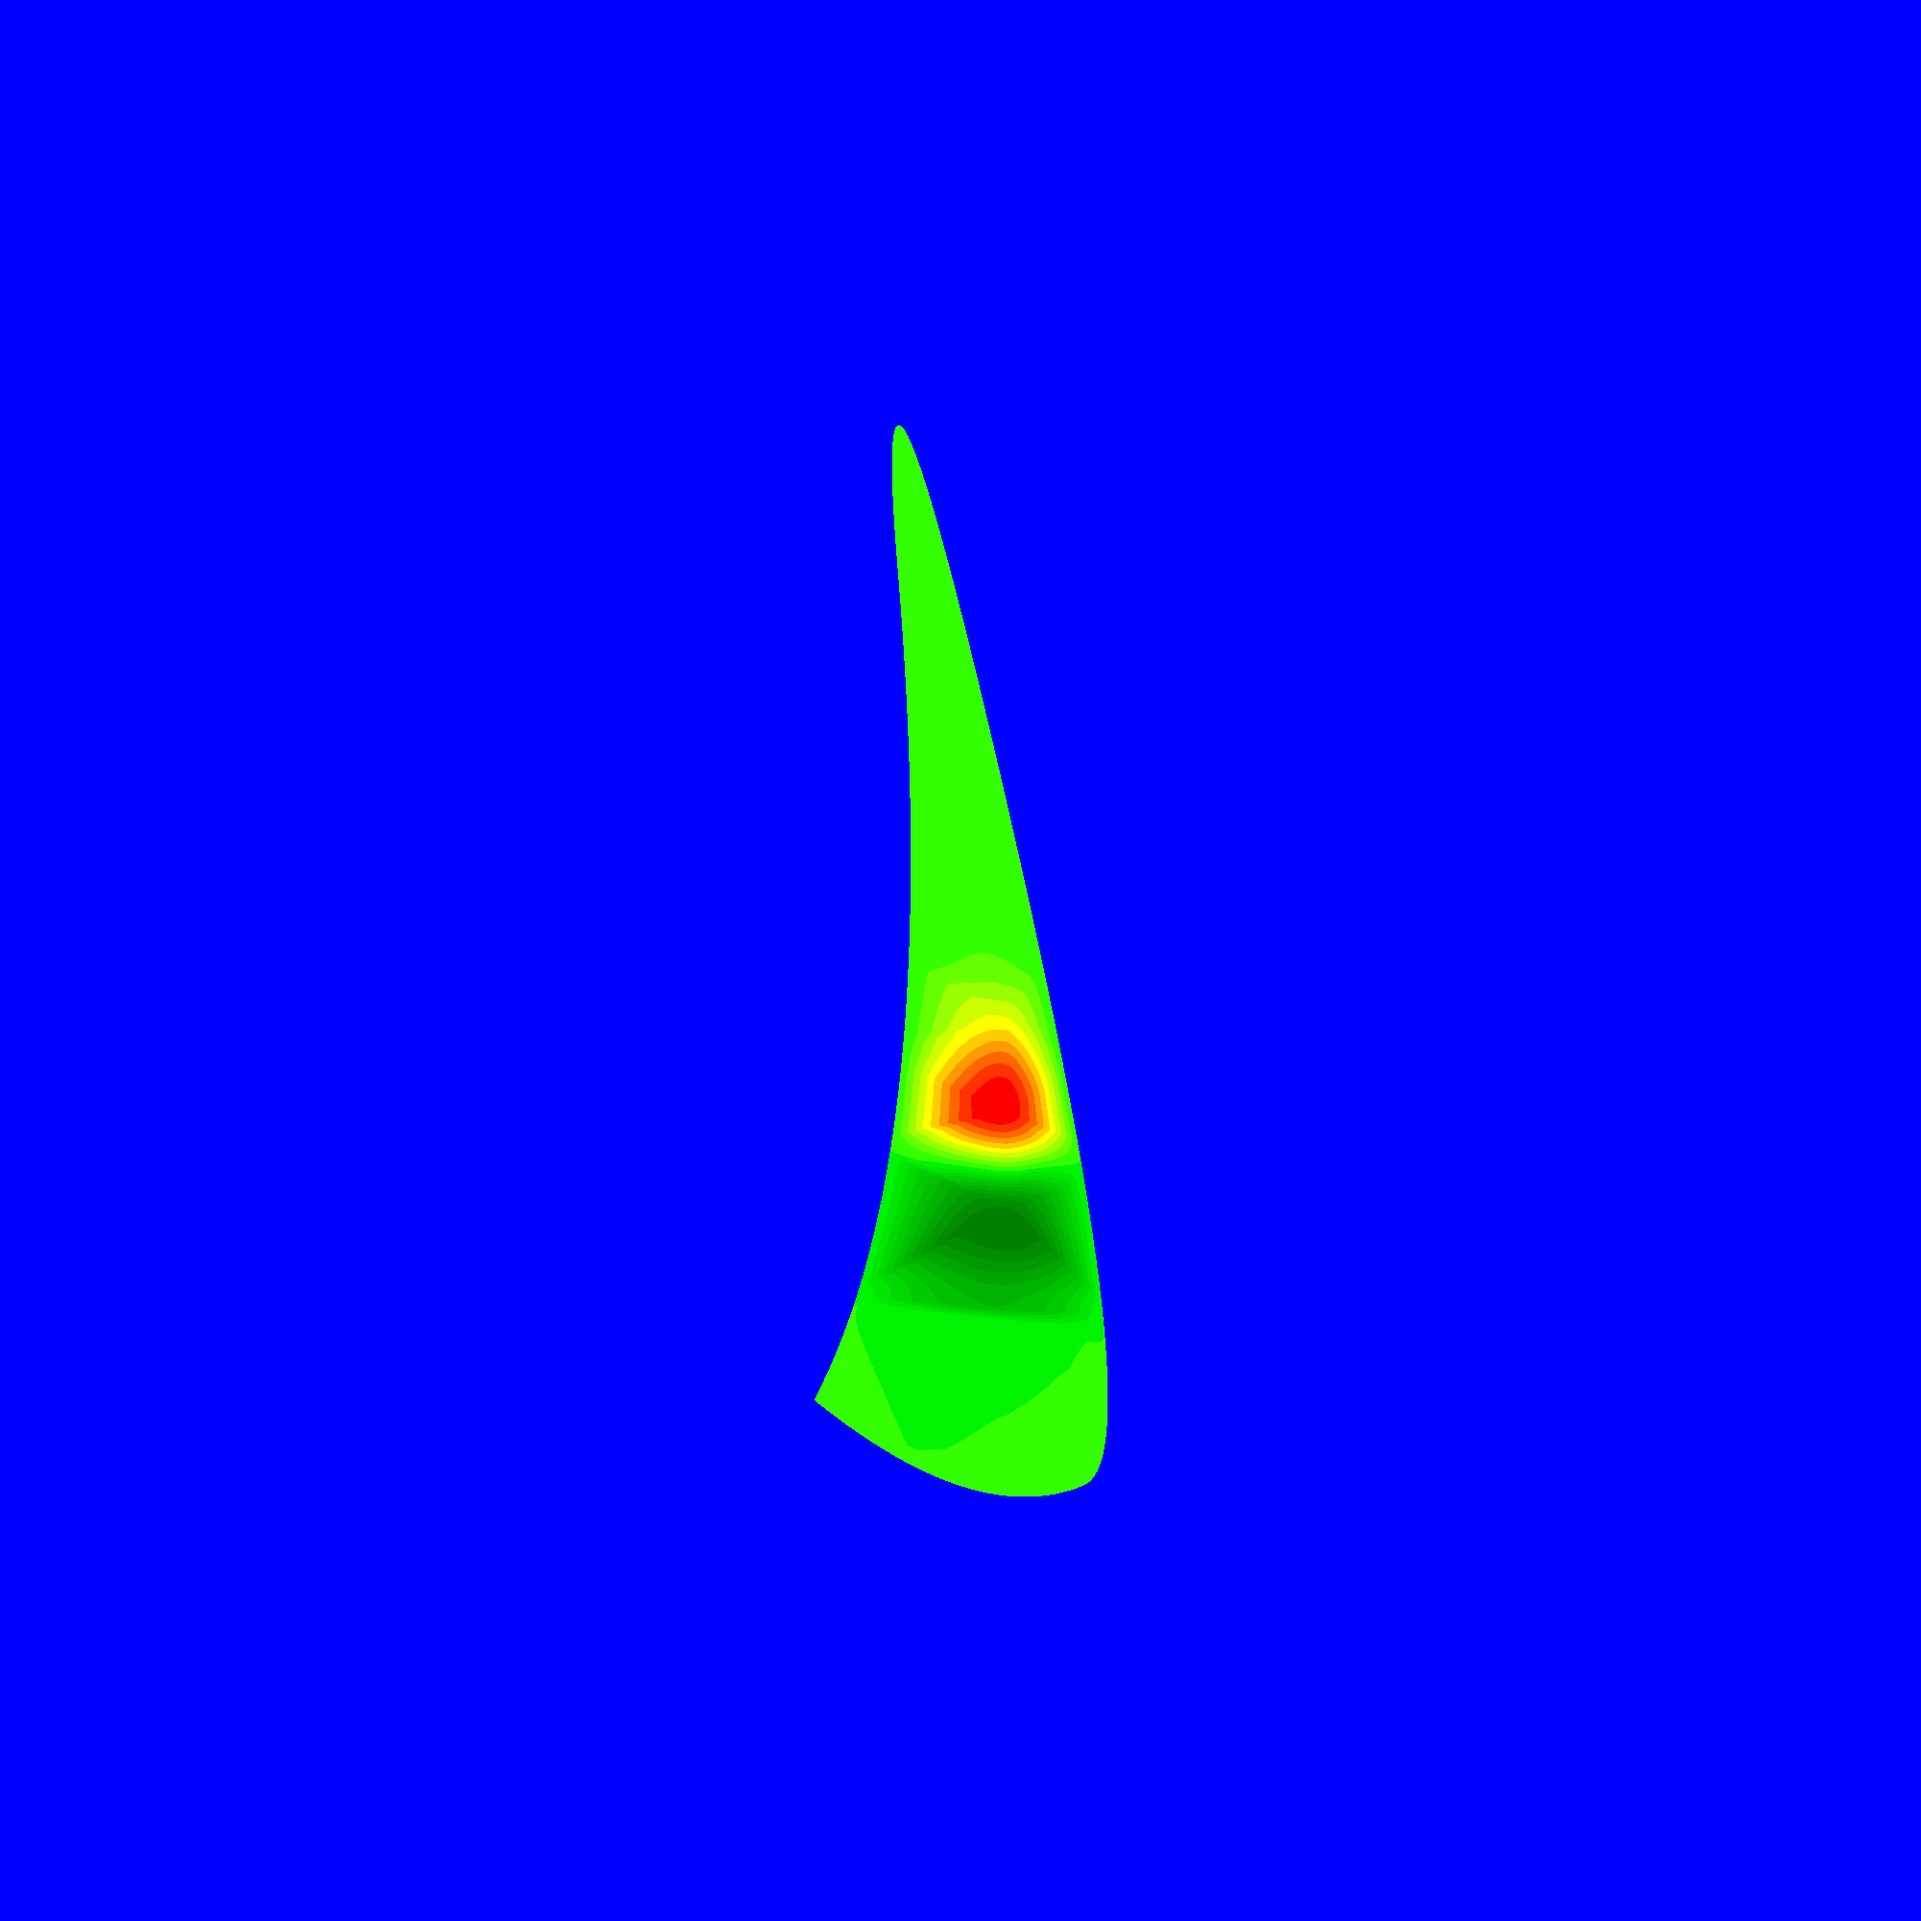
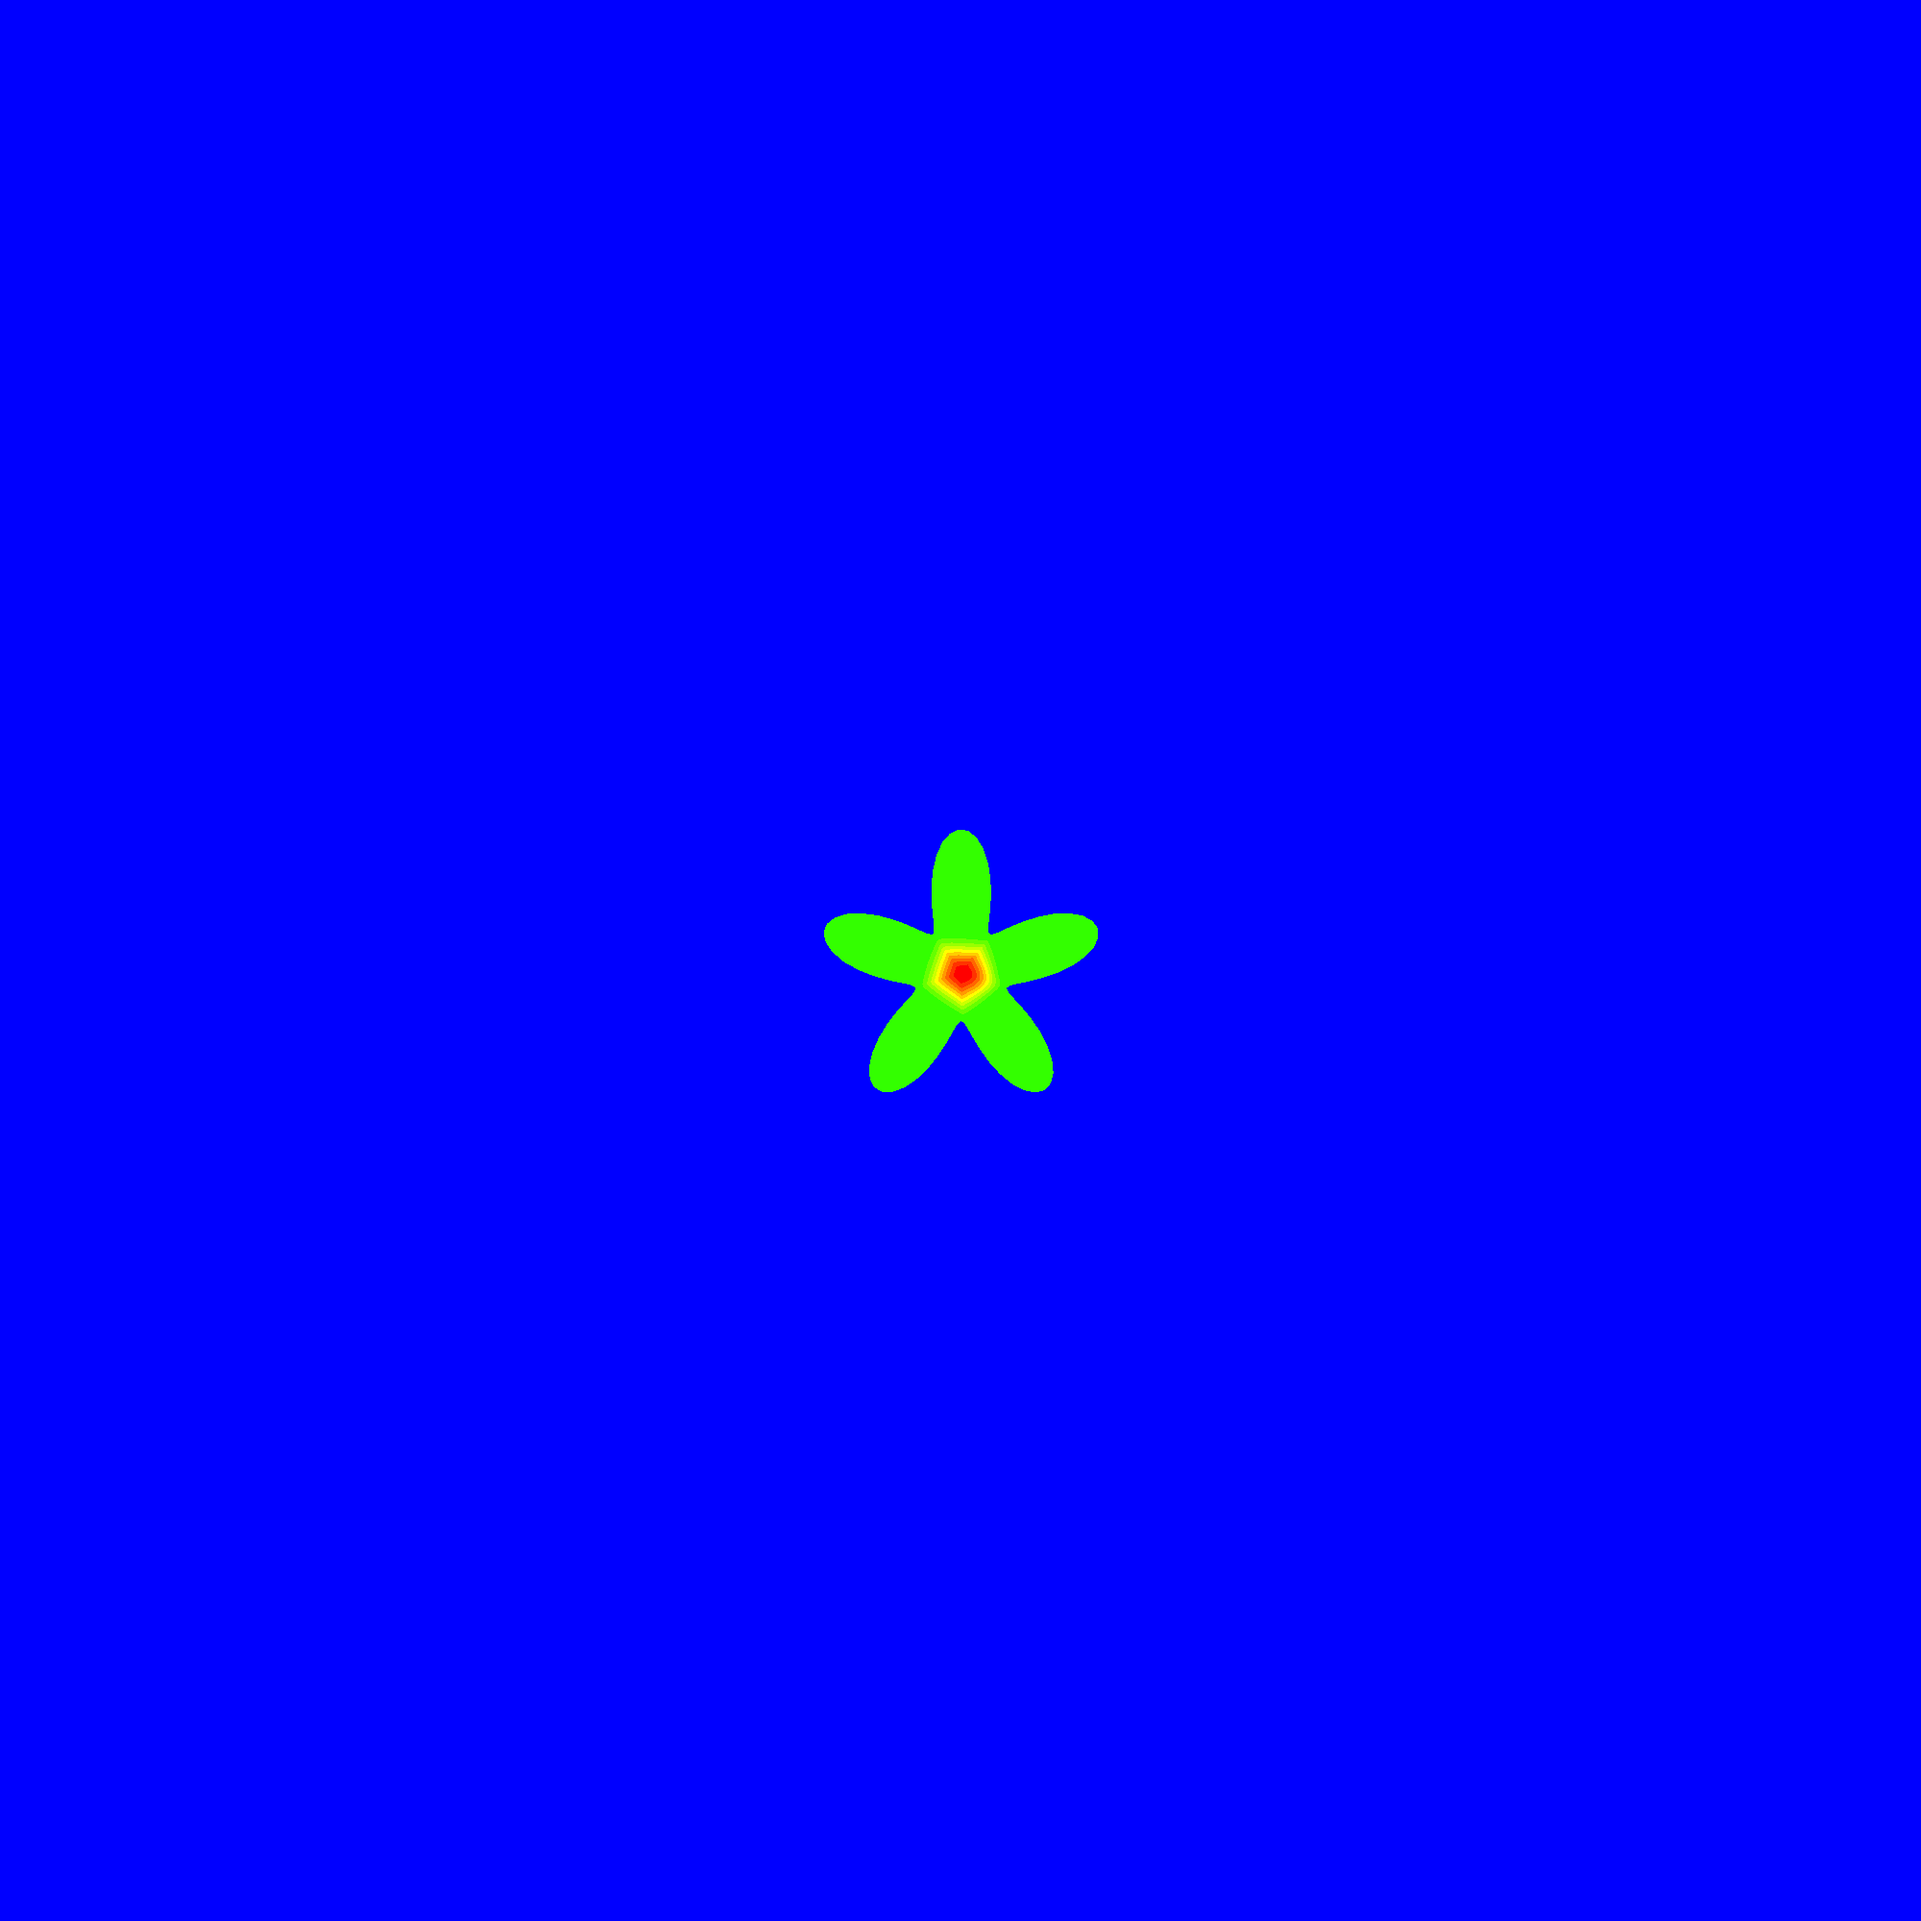
funkcje

Changed region(s): [[0.403, 0.217, 0.589, 0.806]]

diff --git a/python/Land.py b/python/Land.py
@@ -3,6 +3,7 @@ import matplotlib.pyplot as plt
 from Perimeter import *
 from scipy.interpolate import griddata
 from matplotlib.path import Path
+import math
 
 def heights_to_ndarray(heights: list[InterpreterHeight]) -> np.ndarray:
     li = []
@@ -13,9 +14,12 @@ def heights_to_ndarray(heights: list[InterpreterHeight]) -> np.ndarray:
     return np.array(li)
 
 class Land:
-    def __init__(self,points3D: np.ndarray,perimeter: Perimeter,start: list[int]):
+    def __init__(self,points3D: np.ndarray,perimeter: Perimeter,start: list[int],function = None):
         self.start = start
-        self.height_map = self.interpolate_heightmap_from_points(points3D,perimeter)
+        if(function==None):
+            self.height_map = self.interpolate_heightmap_from_points(points3D,perimeter)
+        else:
+            self.height_map = self.get_heightmap_from_function(function,perimeter)
     
     @classmethod
     def from_intland(cls,intland: InterpreterLand):
@@ -23,6 +27,18 @@ class Land:
         perimeter = Perimeter.from_intpoint(intland.perimeter)
         points3D = heights_to_ndarray(intland.height)
         return cls(points3D,perimeter,start)
+    
+    @classmethod
+    def from_two_argument_function(cls,function,perimeter: Perimeter,start: list[int]):
+        return cls(np.zeros((3,3)),perimeter,start,function)
+        
+    def get_heightmap_from_function(self,function,perimeter: Perimeter):
+        x = perimeter.x
+        y = perimeter.y
+        drawn = np.full((int(max(y)-min(y)),int(max(x)-min(x))),np.nan)
+        for point in perimeter.points:
+            drawn[int(point[0]),int(point[1])]=function(point[0],point[1])
+        return drawn
 
     def interpolate_heightmap_from_points(self,points3D: np.ndarray,perimeter: Perimeter) -> np.ndarray:
         x = np.concatenate([points3D[:,0],perimeter.x])
@@ -70,4 +86,12 @@ class Land:
 
 # intland = InterpreterLand(InterpreterPoint(100,100),intpoints2D,heights,"Nic","Nic")
 # l = Land.from_intland(intland)
+# print(l)
+# l = Land(np.array([[0,0,200]]),per,[0,0])
+# print(l)
+
+# def two_arg(x,y):
+#     return math.sin(x**2-y**2)
+
+# l = Land.from_two_argument_function(two_arg,per,[0,0])
 # print(l)

diff --git a/python/Perimeter.py b/python/Perimeter.py
@@ -2,15 +2,18 @@ import numpy as np
 import matplotlib.pyplot as plt
 from scipy.interpolate import make_interp_spline
 from InterpreterContainers import *
+from typing import Callable, List, Union, Any
 
 def point_to_list(point: InterpreterPoint) -> list[int]:
     return [point.x,point.y]
 
 class Perimeter:
-    def __init__(self,points: np.ndarray):
-        if(points.shape[0]<100):
+    def __init__(self,points: np.ndarray,origin: str="points"):
+        if(origin=="points"):
             self.x, self.y = self.interpolate_from_points(points)
+            self.points = points
         else:
+            self.points = points
             self.x = points[:,0]
             self.y = points[:,1]
 
@@ -18,15 +21,15 @@ class Perimeter:
     def from_intpoint(cls,intpoints: list[InterpreterPoint]):
         l = [point_to_list(x) for x in intpoints]
         points = np.array(l)
-        return cls(points)
+        return cls(points,"points")
     
     @classmethod
-    def from_radial_function(cls,function):
+    def from_radial_function(cls,function: Callable[[float],float]):
         theta = np.linspace(0, 2 * np.pi, 100)
         x = function(theta) * np.cos(theta)
         y = function(theta) * np.sin(theta)
         coordinates = np.column_stack((x, y))
-        return cls(coordinates)
+        return cls(coordinates,"function")
 
     def interpolate_from_points(self,points: np.ndarray, degree: int = 2, number_of_points: int = 200) -> tuple[np.ndarray,np.ndarray]:
         x,y = points.T
@@ -61,6 +64,6 @@ class Perimeter:
 # print(per)
 
 # def rad(theta):
-#     return 2 + np.sin(5 * theta)
+#     return 2*50 + 50*np.sin(5 * theta)
 # per = Perimeter.from_radial_function(rad)
 # print(per)

diff --git a/python/World.py b/python/World.py
@@ -95,3 +95,6 @@ class World:
 # intland1 = InterpreterLand(InterpreterPoint(0,0),intpoints2D,heights,"Nic","Nic")
 # intworld = InterpreterWorld([intland1],InterpreterPoint(2000,2000))
 # draw_image_from_InterpreterWorld(intworld)
+
+# w = World([l],[2000,2000])
+# w.draw()
